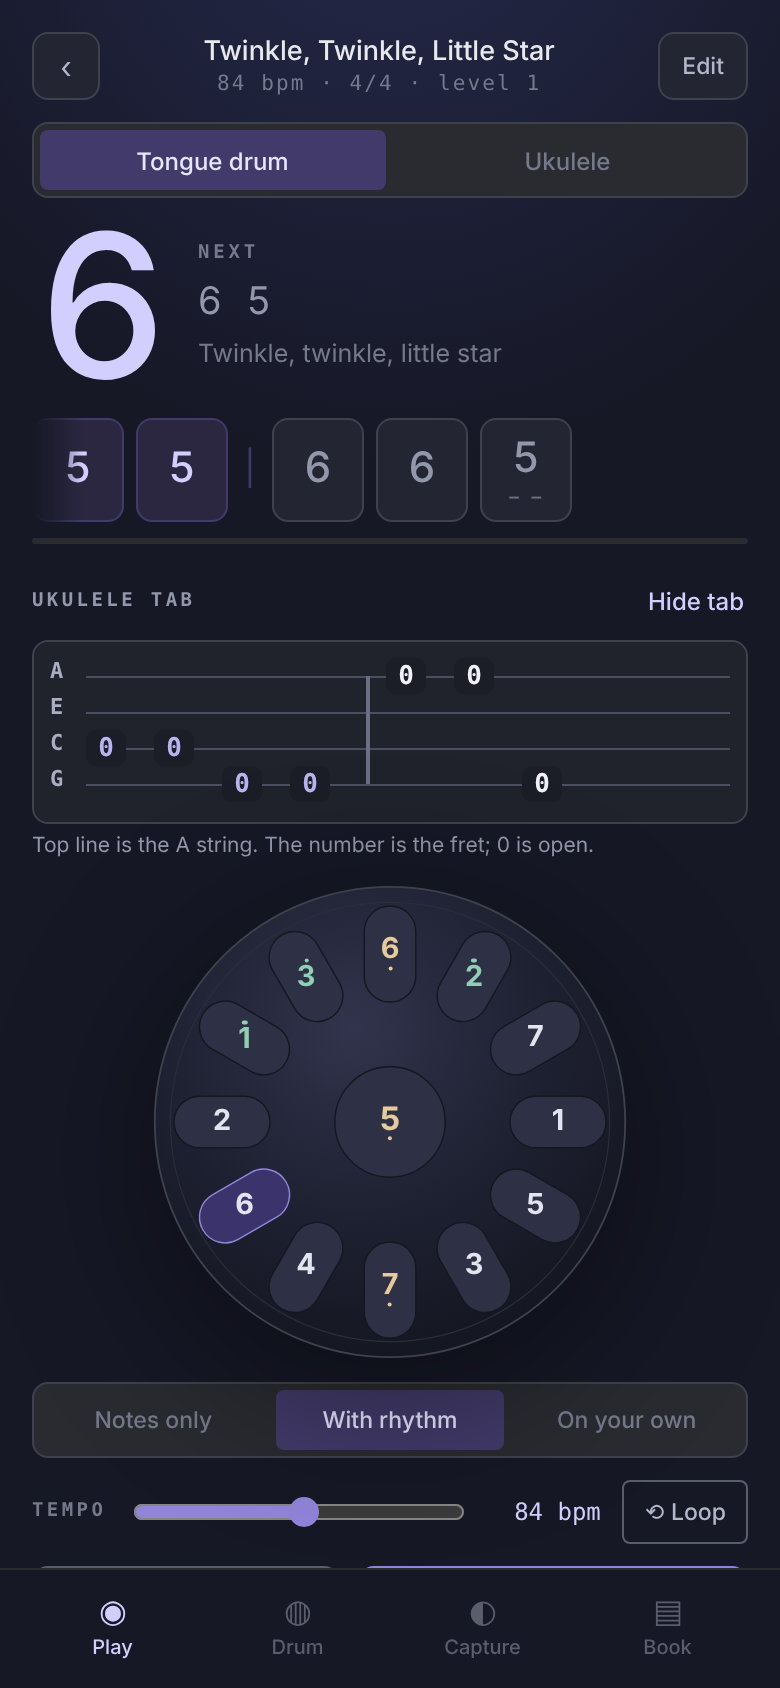
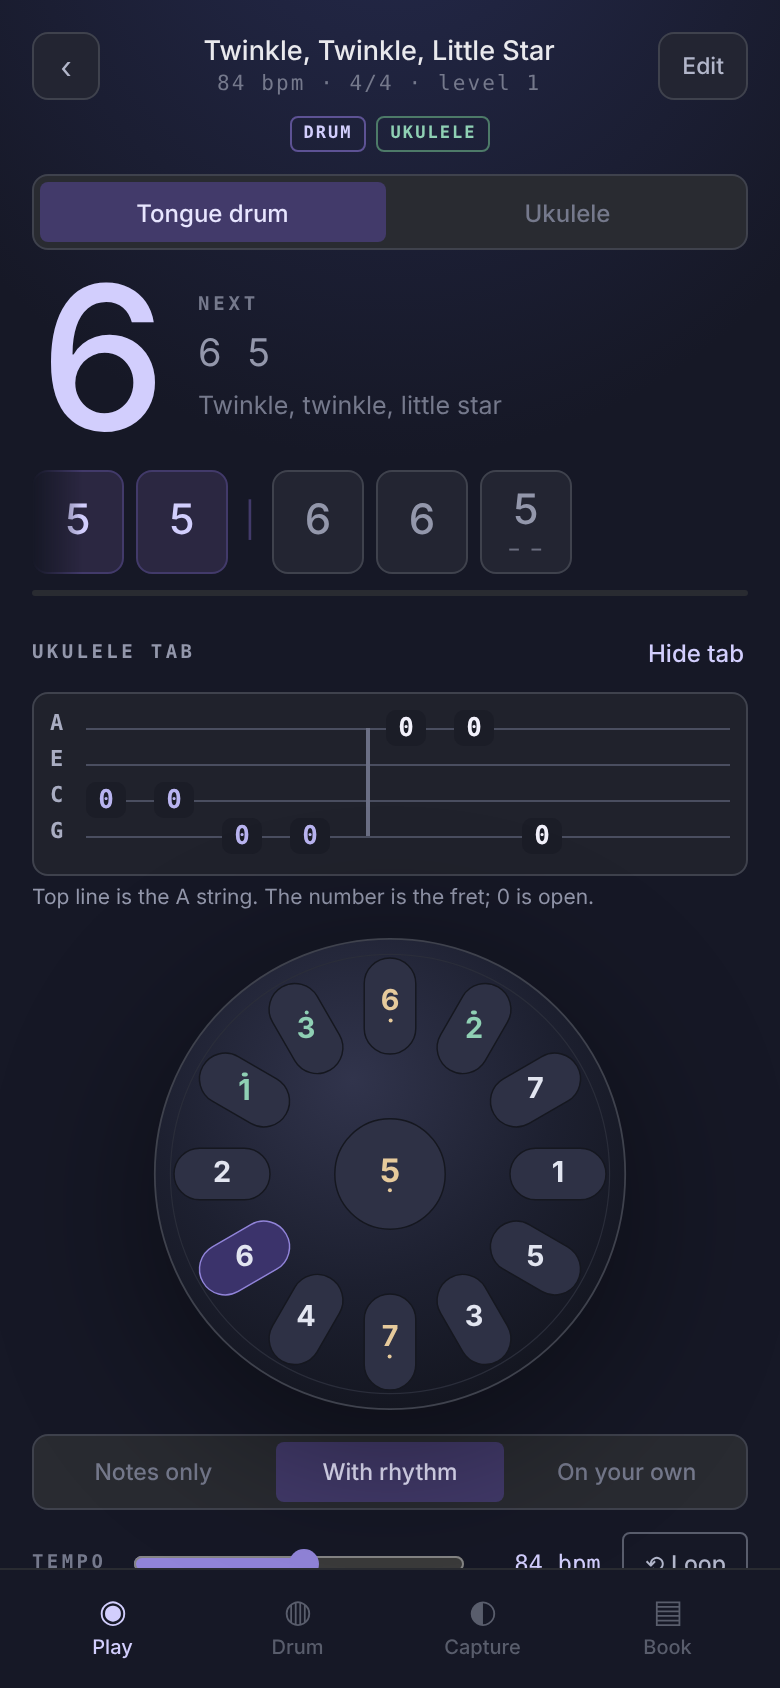
Instrument suitability badges, computed from range and tune shape

diff --git a/index.html b/index.html
@@ -811,7 +811,7 @@ const App = {
           const stars='★★★☆☆☆'.slice(3-x.stars,6-x.stars);
           const tag=(t,bc,fg)=>`<span style="flex:none;font:600 8.5px ui-monospace,Menlo,monospace;letter-spacing:.12em;text-transform:uppercase;padding:3px 6px;border-radius:var(--radius-sm);border:1px solid ${bc};color:${fg}">${t}</span>`;
           const flag=(x.flag?tag(x.flag,x.flag==='timing'?'#7a6a4a':'#5d5294',x.flag==='timing'?'#e0c79a':'#d2cefd'):'')
-            +(this.hasUke(x)?tag('uke','#4d7a68','#8fd0b4'):'')
+            +(this.hasUke(x)?tag('uke','#4d7a68','#8fd0b4'):'')+MF_TAB.badges(x)
             +(x.custom?tag('mine','#595d6c','#b2b6ca'):x.edited?tag('edited','#595d6c','#b2b6ca'):'');
           return `<button data-act="openSong" data-id="${x.id}" style="width:100%;display:flex;align-items:center;gap:11px;text-align:left;padding:11px 12px;border-radius:var(--radius-md);border:1px solid var(--color-neutral-900);background:var(--color-surface);color:inherit;cursor:pointer">
             <div style="flex:none;width:34px;height:34px;border-radius:var(--radius-sm);display:grid;place-items:center;background:var(--color-bg);border:1px solid var(--color-neutral-800);font:600 11px ui-monospace,Menlo,monospace;color:var(--color-accent-300)">${x.lines.length}</div>
@@ -934,8 +934,9 @@ const App = {
   practiceInst(){
     const st=this.state, s=this.song();
     const restore=s.edited?`<button data-act="restoreSong" style="border:0;background:none;color:var(--color-neutral-600);font:500 11px Inter,sans-serif;cursor:pointer;padding:6px 2px 0">Edited · restore the original</button>`:'';
-    if(!this.hasUke(s)) return restore?`<div style="text-align:center">${restore}</div>`:'';
-    return `<div style="display:flex;gap:5px;margin-top:11px;padding:3px;border-radius:var(--radius-md);background:#292b31;border:1px solid var(--color-neutral-800)">${
+    const bdg=`<div style="display:flex;gap:5px;justify-content:center;flex-wrap:wrap;margin-top:8px">${MF_TAB.badges(s)}</div>`;
+    if(!this.hasUke(s)) return bdg+(restore?`<div style="text-align:center">${restore}</div>`:'');
+    return bdg+`<div style="display:flex;gap:5px;margin-top:11px;padding:3px;border-radius:var(--radius-md);background:#292b31;border:1px solid var(--color-neutral-800)">${
       this.seg([['drum','Tongue drum',30,12],['ukulele','Ukulele',30,12]],st.inst==='ukulele'?'ukulele':'drum','playInst')}</div>${restore?`<div style="text-align:center">${restore}</div>`:''}`;
   },
 
@@ -1314,6 +1315,7 @@ const App = {
             <button data-act="scoreEdit" data-id="${x.id}" style="border:0;background:none;color:var(--color-accent-400);font:500 11.5px Inter,sans-serif;cursor:pointer;flex:none">edit</button>
           </div>
           <div style="font:400 10.5px ui-monospace,Menlo,monospace;letter-spacing:.12em;color:var(--color-neutral-600);margin-top:3px">${esc(x.cat)} · ${x.bpm} bpm · ${x.meter}</div>
+          <div style="display:flex;gap:5px;flex-wrap:wrap;margin-top:6px">${MF_TAB.badges(x)}</div>
           <button data-act="toggleTab" aria-pressed="${st.showTab}" style="min-height:30px;border:0;background:none;color:var(--color-accent-300);font:500 11.5px Inter,sans-serif;cursor:pointer;padding:4px 0">${st.showTab?'Hide uke tab':'Show uke tab'}</button>
           <div style="margin-top:10px;display:flex;flex-direction:column;gap:6px">
             ${x.lines.map(l=>{

diff --git a/tab.js b/tab.js
@@ -103,5 +103,48 @@
       </div></div>`;
   }
 
-  root.MF_TAB = { OPEN, NAMES, ROWS, MAX_FRET, hzToMidi, noteName, place, placePad, columns, render };
+  /**
+   * How well a song suits each instrument. Every song is written for the drum,
+   * so the drum is always fine unless the song says otherwise. On the uke:
+   *   'good'    every note in range
+   *   'shifted' some notes go up an octave but every step still moves the way
+   *             the tune does
+   *   'poor'    the octave shift turns a step up into a step down (or back)
+   * A song may override either with `suit: { drum, uke }`.
+   */
+  function suitability(song) {
+    const o = (song && song.suit) || {};
+    const notes = [];
+    (song && song.lines || []).forEach((l) => columns(l.notes).forEach((c) => {
+      if (!c.bar && !c.rest) notes.push(c);
+    }));
+    let uke = 'good', shifted = 0, broken = 0;
+    for (let i = 0; i < notes.length; i++) {
+      if (notes[i].shifted) shifted++;
+      if (i) {
+        const a = notes[i - 1], b = notes[i];
+        const was = Math.sign((b.midi - b.shifted) - (a.midi - a.shifted));
+        const now = Math.sign(b.midi - a.midi);
+        if (was !== now) broken++;
+      }
+    }
+    if (shifted) uke = broken ? 'poor' : 'shifted';
+    const chords = (song && song.lines || []).some((l) => l.chords && l.chords.length);
+    return { drum: o.drum || 'good', uke: o.uke || uke, chords, shifted, broken };
+  }
+
+  /** The badges, as accessible markup. */
+  function badges(song) {
+    const s = suitability(song);
+    const tag = (t, aria, bc, fg) => `<span role="img" aria-label="${esc(aria)}" title="${esc(aria)}" style="flex:none;font:600 8.5px ui-monospace,Menlo,monospace;letter-spacing:.12em;text-transform:uppercase;padding:3px 6px;border-radius:4px;border:1px solid ${bc};color:${fg}">${t}</span>`;
+    const ok = (bc, fg) => [bc, fg];
+    const out = [];
+    out.push(s.drum === 'poor' ? tag('Not ideal on drum', 'Not ideal on the tongue drum', '#7a6a4a', '#e0c79a') : tag('Drum', 'Suits the tongue drum', ...ok('#5d5294', '#d2cefd')));
+    if (s.uke === 'good') out.push(tag('Ukulele', 'Suits the ukulele: every note in range', '#4d7a68', '#8fd0b4'));
+    else if (s.uke === 'shifted') out.push(tag('Uke · octave up', 'Works on ukulele with some notes an octave up', '#4d7a68', '#8fd0b4'));
+    else out.push(tag('Not ideal on uke', 'Not ideal on ukulele: the octave shift changes the shape of the tune', '#7a6a4a', '#e0c79a'));
+    return out.join('');
+  }
+
+  root.MF_TAB = { OPEN, NAMES, ROWS, MAX_FRET, hzToMidi, noteName, place, placePad, columns, render, suitability, badges };
 })(typeof globalThis !== 'undefined' ? globalThis : this);
